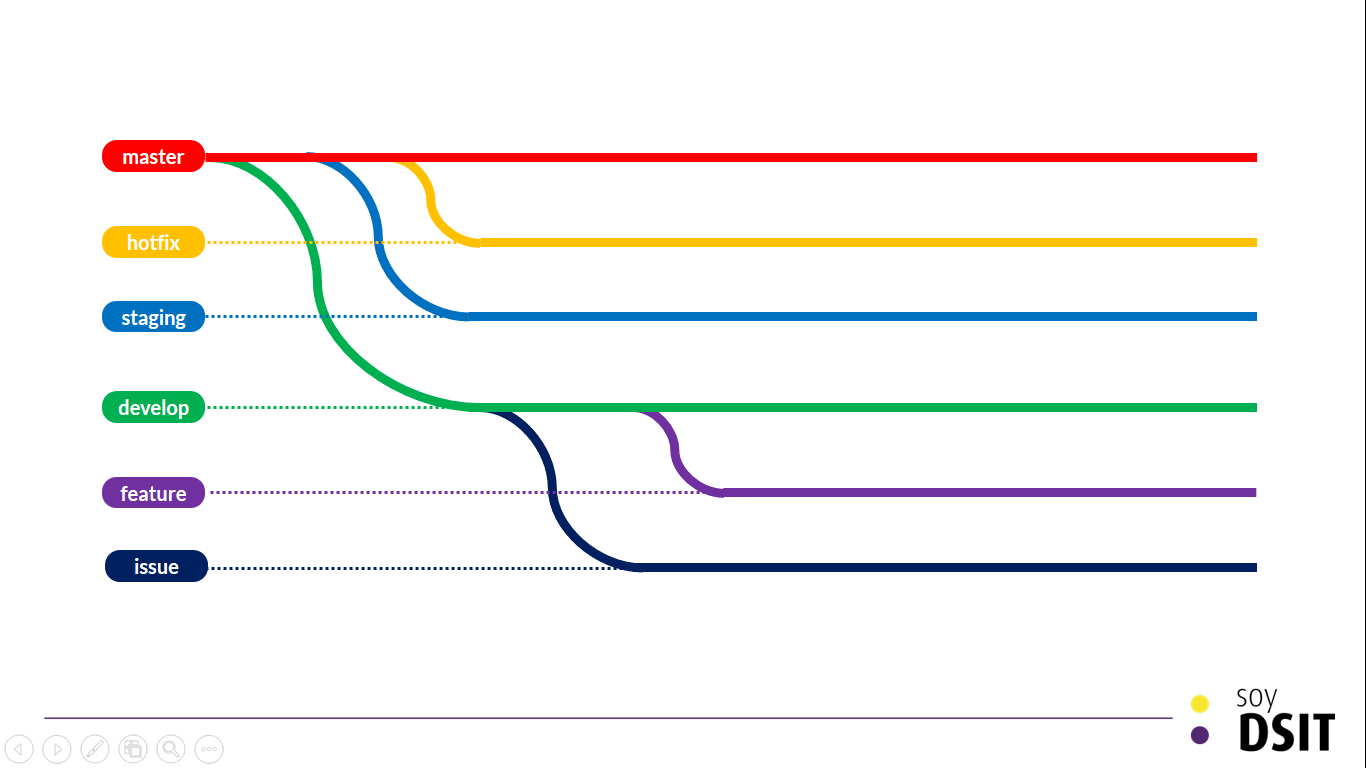
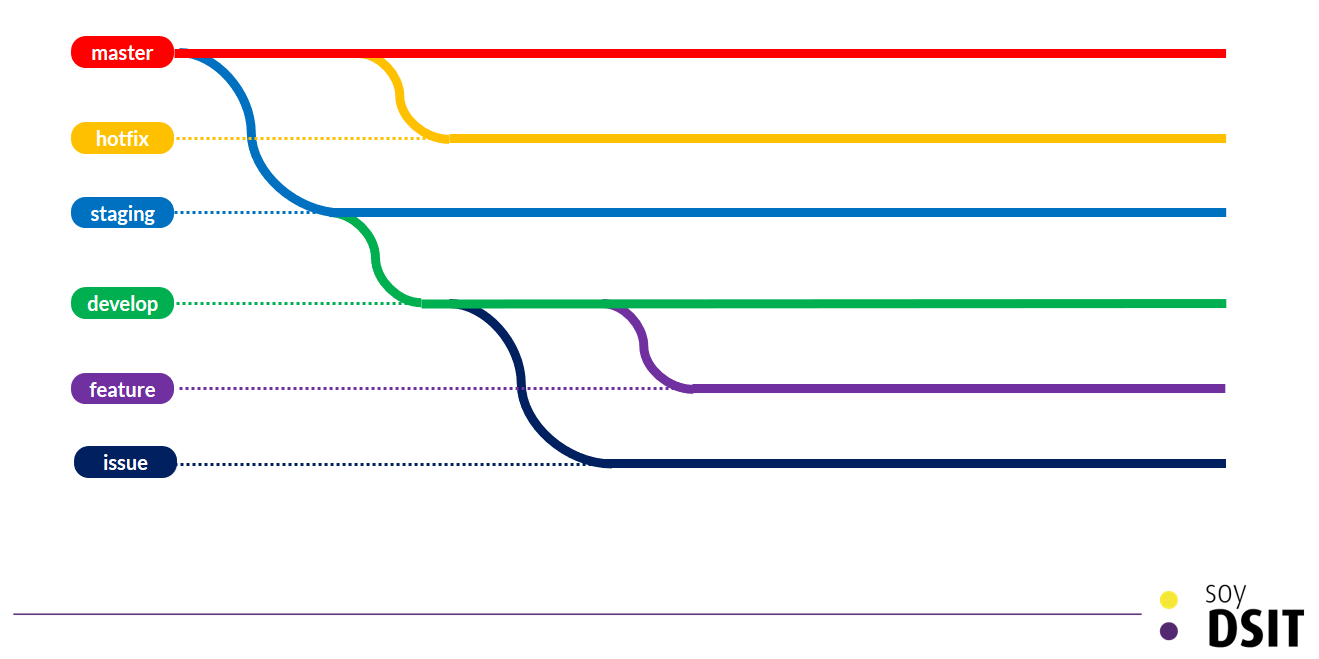
Added branches images

diff --git a/versionamiento/BRANCHES.md b/versionamiento/BRANCHES.md
@@ -42,9 +42,14 @@ La rama master es la rama principal del repositorio. Esta es la rama que alberga
 * El código no debe tener problemas de integración, compilación ni ejecución
 * El código debe haber sido probado por el tester y líder funcional (usuario que solicitó la solución)
 * Solo el mantainer puede mezclar cambios a esta rama
-* El versionamiento se sigue haciendo uso de la nomenclatura _____
+* El versionamiento se realiza haciendo uso de la nomenclatura _____
 * La mezcla de cambios está limitada por la función de Pull request, no se permiten merge.
-<<TODO reglas de ramas>>
+
+Para asegurar que los cambios solo sean mezclados haciendo uso de pull request, el mantainer puede agregar reglas las cuales se crean en el repositorio por medio del menú settings.
+<dt> Paso 1 <dt>
+![Reglas](../img/rules_1.PNG "Agregando reglas paso 1")
+<dt> Paso 2 <dt>
+![Reglas](../img/rules_2.PNG "Agregando reglas paso 2")
 
 ### staging
 La rama de staging o pre-productiva es la rama utilizada para preparar el release de entrega y realizar las pruebas de aceptación. Sobre esta rama el desarrollador realiza las tareas pre-release como son documentación, agregar información de configuración, y cualquier tarea adicional que no es específica del desarrollo. Al tiempo, es la rama en la cual se ejecutan pruebas de aceptación del líder funcional o usuario final. Esta rama tiene las siguientes reglas:
@@ -68,7 +73,7 @@ La rama de develop es la rama de desarrollo, sobre esta rama se mantiene la inte
 Las ramas de feature son ramas de caracter temporal que están destinadas para albergar el código de un developer o varios, que estén trabajando sobre una funcionalidad o característica (feature) de la aplicación. Estas ramas tienen las siguientes reglas:
 * Se crean directamente de develop
 * Su propósito es albergar el código de una funcionalidad, ejemplo: un caso de uso, una historia de usuario.
-* Se nombran de la manera <<Código del feature>>-feature
+* Se nombran de la manera **<<Código del feature>>-feature**
 * Al finalizar el desarrollo y posterior a la aprobación del tester, la rama debe eliminarse
 * Para evitar conflictos sobre la rama de develop, todos los conflictos deben ser resueltos sobre estas ramas.
 
@@ -76,7 +81,7 @@ Las ramas de feature son ramas de caracter temporal que están destinadas para a
 Las ramas de hotfix son ramas de caracter temporal que se crean para la atención de un error crítico en la aplicación, que no puede esperar al despliegue de una nuevo release. Estas ramas tienen las siguientes reglas:
 * Se crean directamente de master
 * Su propósito es almacenar el código para la solución de un error en productivo
-* Se nombran de la manera <<Código del bug>>-hotfix
+* Se nombran de la manera **<<Código del bug>>-hotfix**
 * Al finalizar el desarrollo y posterior a la aprobación del tester, la rama debe eliminarse
 * Esta rama debe mezclar sus cambios a la rama master y a la rama developer
 
@@ -84,7 +89,7 @@ Las ramas de hotfix son ramas de caracter temporal que se crean para la atenció
 Las ramas de issues son ramas de caracter temporal que se crean para la atención de un error en el código de desarrollo. Estos issues son detectados en staging o develop por la integración de un feature y son trabajados en una rama aparte si la rama feature correspondiente ya fue eliminada. Estas ramas tienen las siguientes reglas:
 * Se crean directamente de master
 * Su propósito es albergar el código de una error en develop o staging
-* Se nombran de la manera <<Código del issue>>-issue
+* Se nombran de la manera **<<Código del issue>>-issue**
 * Al finalizar el desarrollo y posterior a la aprobación del tester, la rama debe eliminarse
 * Esta rama debe mezclar sus cambios a la rama developer
 
@@ -97,13 +102,16 @@ El Gitflow propuesto ha sido diseñado para garantizar la calidad de los product
 Al crear el repositorio, la rama master debe albergar el código suficiente (código base) que permita a todos los desarrolladores poder trabajar sin depender unos de otros.
 
 ### 2. **Creación de ramas**
+![Primeras ramas](../img/first_branches.PNG "Creando primeras ramas")
 Se crean las ramas siguiendo el orden:
   * staging desde master
   * develop desde Staging
   * features iniciales desde develop
 
+
 ### 3. **Desarrollo de funcionalidades**
-Un developer o grupo de developers trabajan sobre una rama de features y pueden subir su desarrollo cuando esté finalizado (no antes) siguiendo los siguientes pasos:
+![Features branches](../img/feature_branches.PNG "Desarrollando en features")
+Un developer o grupo de developers trabajan sobre una rama de features y pueden subir su desarrollo cuando esté finalizado (no antes) siguiendo estos pasos:
 ```
 # Realizar estos pasos continuamente permitirán una integración continua del desarrollo
 git add .
@@ -123,7 +131,8 @@ git pull origin <<Código del feature>>-feature
 ```
 
 ### 4. **Pruebas de sistema nivel 0**
-Las pruebas del sistema nivel 0 son las pruebas que aplica el equipo de QA al desarrollo para comprobar que los features cumplen con lo definido en los escenarios de pruebas. Estas pruebas son llevadas sobre el tester y se ejecutan al integrar el desarrollo de un feature. Para ello se realizan los siguientes pasos:
+![Develop branch](../img/develop_branch.PNG "Mezclando a desarrollo")
+Las pruebas del sistema nivel 0 son las pruebas que aplica el equipo de QA al desarrollo para comprobar que las funcionalidades cumplen con lo definido en los escenarios de pruebas. Estas pruebas son llevadas por el tester y se ejecutan al integrar el desarrollo de un feature. Para ello se realizan los siguientes pasos:
   * El desarrollador, posterior a la mezcla de código en develop, genera un pull request a staging y asigna para su revisión al tester.
   * El tester despliega el código del pull request para validar los escenarios de calidad
   * El tester aprueba o desaprueba el pull request
@@ -131,6 +140,7 @@ Las pruebas del sistema nivel 0 son las pruebas que aplica el equipo de QA al de
   * Si el tester aprueba el feature la rama que corresponde debe ser eliminada
 
 ### 5. **Pruebas de aceptación, carga, y seguridad**
+![Staging branch](../img/staging_branch.PNG "Mezclando a staging")
 Las pruebas de aceptación son realizadas por el usuario que ha solicitado el sistema para probar que la aplicación cumple con lo deseado previo al despliegue en productivo. Las pruebas de carga y seguridad, son pruebas técnicas realizadas para validar que el sistema cumple con los atributos de calidad que se esperan, tales como desempeño y seguridad. Para ello se realizan los siguientes pasos:
   * El tester comunica al equipo de despliegue (deployer) el despliegue del código en la rama de staging sobre el servidor pre-productivo
   * El tester comunica a las áreas que el desarrollo puede ser sometido a pruebas de aceptación, carga o seguridad sobre el ambiente pre-productivo a las áreas correspondientes.
@@ -138,6 +148,7 @@ Las pruebas de aceptación son realizadas por el usuario que ha solicitado el si
   * Si el desarrollo ha sido finalizado completamente y las pruebas son satisfactorias, el tester crea un pull request a master solicitando la aprobación del mantainer y la revisión del equipo de desarrollo.
 
 ### 6. **Despliegue en producción**
+![Master branch](../img/master_branch.PNG "Mezclando a master")
 Al cumplir con todas las pruebas el código es aprobado para ser mezclado en master generando una nueva versión de la aplicación. **Nota:** toda mezcla de código en master debe generar una nueva versión de la aplicación. Los pasos a seguir son:
   * El pull request es aprobado y mezclado a master
   * El mantainer crea un release de código siguiendo la nomenclatura descrita en ______
@@ -147,6 +158,7 @@ Al cumplir con todas las pruebas el código es aprobado para ser mezclado en mas
   * Se inicia un nuevo desarrollo
 
 ### 7. **Atención de errores en desarrollo**
+![Issue branch](../img/issue_branches.PNG "Corrigiendo errores de desarrollo")
 Cuando se presenta un error en desarrollo, el error debe ser resuelto sobre la feature que incluyó el error. Si la rama aún está presente es necesario hacer un rollback a un punto de estabilidad del código de lo contrario es necesario hacer una rama para atender el issue y resolverlo pronto. Los pasos a seguir son:
   * Se reporta que hay un issue en desarrollo por medio del tablero de issues y se asigna al desarrollador y al mantainer.
   * Si el error es por un feature que acabo de ser incluido y para el cual la rama aún existe, se hace rollback al cambio y soluciona en dicha rama. Mezclar los cambios con develop siguiendo los pasos 3 y 4.
@@ -154,6 +166,7 @@ Cuando se presenta un error en desarrollo, el error debe ser resuelto sobre la f
   * Si el error ya ha sido resuelto y probado se elimina la rama de issue.
 
 ### 8. **Atención de errores en producción**
+![Hotfix branch](../img/hotfix_branches.PNG "Corrigiendo errores en productivo")
 Cuando se presenta un error en producción y se considera que el error es bloqueante, crítico o que no puede esperar a una nueva versión de código se debe manejar con una rama de hotfix. Sino es así se debe manejar con una rama de issue. Los pasos a seguir son:
   * Determinar la gravedad del issue en producción en conjunto con el líder funcional
   * Si se considera que no es crítico, bloqueante y puede esperar a un nuevo release, se crea una nueva rama de issue y se trabaja como en el paso 3 y 4.
